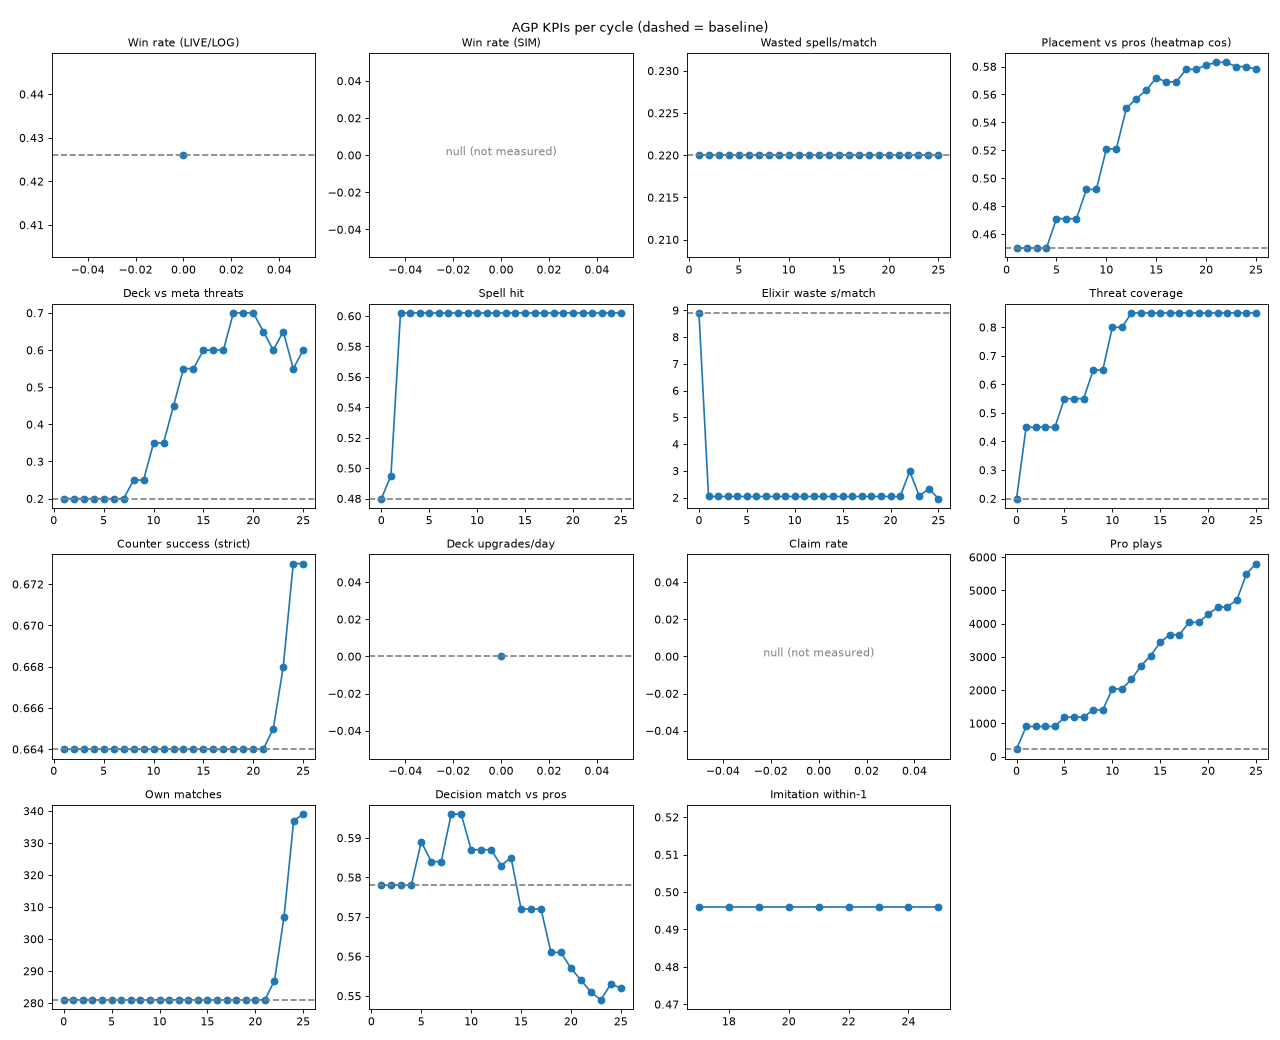
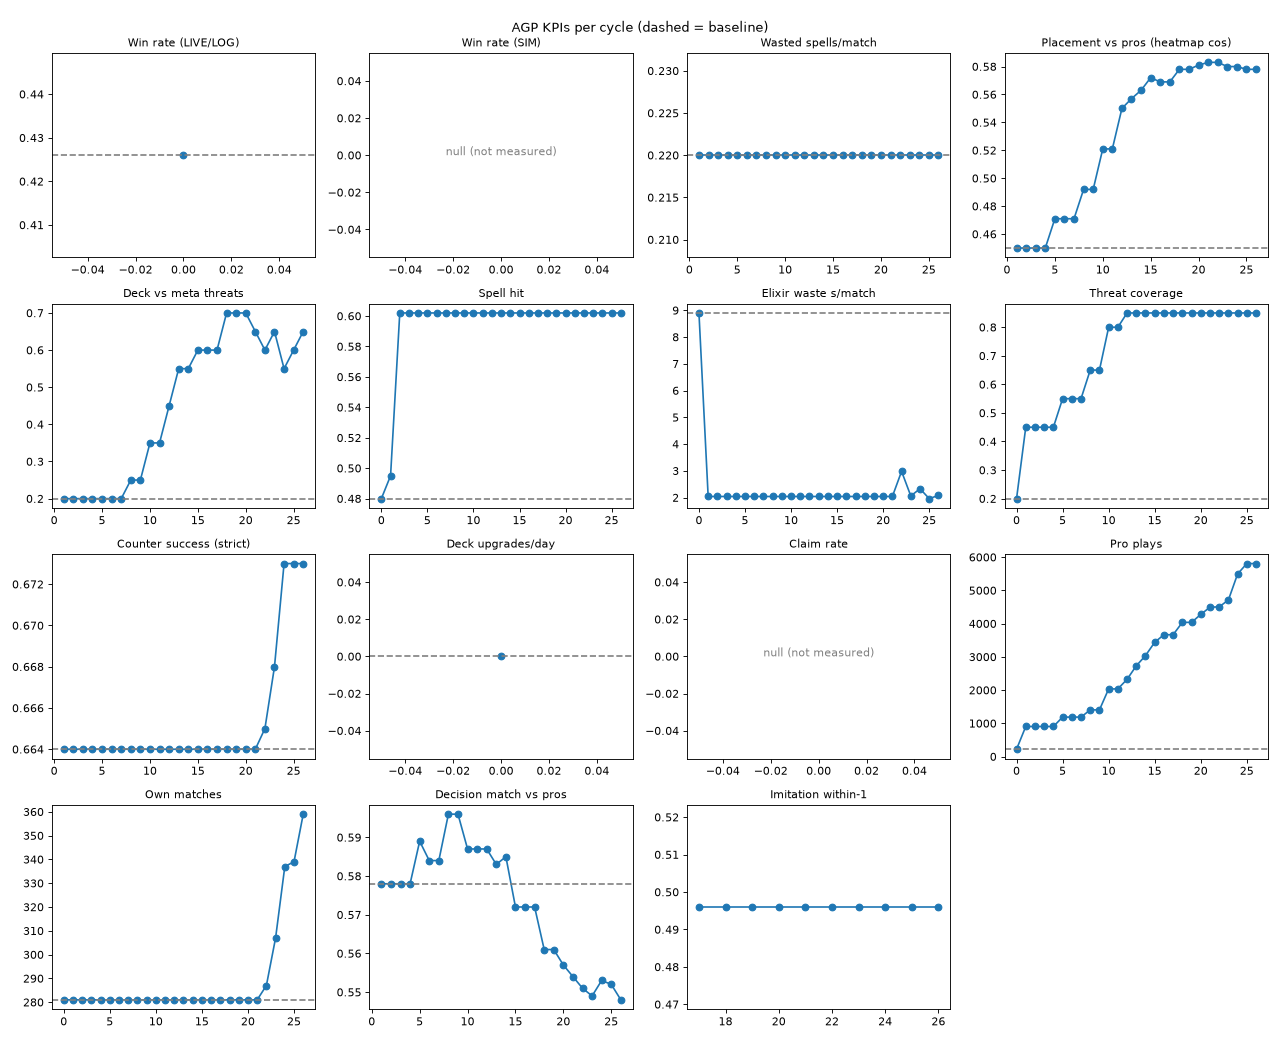
agp_loop 2026-11-02 14:21

diff --git a/laptop/PERFORMANCE_DASHBOARD.md b/laptop/PERFORMANCE_DASHBOARD.md
@@ -29,22 +29,22 @@ KPIs 6 and 7 stay blank until you greenlight, because they need the live game.
 <!-- DASHBOARD:BEGIN -->
 | KPI | Baseline | Current | Δ | Trend (last 5) | Source | Cycle |
 |---|---|---|---|---|---|---|
-| Win rate (LIVE/LOG) | 42.6% (n=195) | null | – | null → null → null → null → null | – | 25 (REVERT) |
-| Win rate (SIM) | null | null | – | null → null → null → null → null | – | 25 (REVERT) |
-| Wasted spells/match | 0.22 (n=206) @c1 | 0.22 (n=206) | = +0 | 0.22 → 0.22 → 0.22 → 0.22 → 0.22 | SIM | 25 (REVERT) |
-| Placement vs pros (heatmap cos) | 45.0% (n=905) @c1 | 57.8% (n=5808) | ▲ +12.8 pp | 58.3% → 58.3% → 58.0% → 58.0% → 57.8% | SIM+VOD | 25 (REVERT) |
-| Deck vs meta threats | 20.0% (n=20) @c1 | 60.0% (n=20) | ▲ +40.0 pp | 65.0% → 60.0% → 65.0% → 55.0% → 60.0% | LOG+WEB | 25 (REVERT) |
-| Spell hit | 48.0% (n=75) | 60.2% (n=93) | ▲ +12.2 pp | 60.2% → 60.2% → 60.2% → 60.2% → 60.2% | SIM | 25 (REVERT) |
-| Elixir waste s/match | 8.9 (n=263) | 1.96 (n=60) | ▲ -6.94 | 2.04 → 2.98 → 2.06 → 2.33 → 1.96 | SIM | 25 (REVERT) |
-| Threat coverage | 20.0% (n=20) | 85.0% (n=20) | ▲ +65.0 pp | 85.0% → 85.0% → 85.0% → 85.0% → 85.0% | LOG+VOD | 25 (REVERT) |
-| Counter success (strict) | 66.4% (n=3599) @c1 | 67.3% (n=4254) | = +0.9 pp | 66.4% → 66.5% → 66.8% → 67.3% → 67.3% | LOG | 25 (REVERT) |
-| Deck upgrades/day | 0 | null | – | null → null → null → null → null | – | 25 (REVERT) |
-| Claim rate | null | null | – | null → null → null → null → null | – | 25 (REVERT) |
-| Pro plays | 221 | 5808 | ▲ +5587 | 4495 → 4505 → 4711 → 5494 → 5808 | VOD | 25 (REVERT) |
-| Own matches | 281 | 339 | ▲ +58 | 281 → 287 → 307 → 337 → 339 | LOG | 25 (REVERT) |
-| Decision match vs pros | 57.8% (n=325) @c1 | 55.2% (n=2712) | ▼ -2.6 pp | 55.4% → 55.1% → 54.9% → 55.3% → 55.2% | SIM | 25 (REVERT) |
-| Imitation within-1 | 0.23–0.31 | 49.6% | – | 49.6% → 49.6% → 49.6% → 49.6% → 49.6% | – | 25 (REVERT) |
+| Win rate (LIVE/LOG) | 42.6% (n=195) | null | – | null → null → null → null → null | – | 26 (REVERT) |
+| Win rate (SIM) | null | null | – | null → null → null → null → null | – | 26 (REVERT) |
+| Wasted spells/match | 0.22 (n=206) @c1 | 0.22 (n=206) | = +0 | 0.22 → 0.22 → 0.22 → 0.22 → 0.22 | SIM | 26 (REVERT) |
+| Placement vs pros (heatmap cos) | 45.0% (n=905) @c1 | 57.8% (n=5808) | ▲ +12.8 pp | 58.3% → 58.0% → 58.0% → 57.8% → 57.8% | SIM+VOD | 26 (REVERT) |
+| Deck vs meta threats | 20.0% (n=20) @c1 | 65.0% (n=20) | ▲ +45.0 pp | 60.0% → 65.0% → 55.0% → 60.0% → 65.0% | LOG+WEB | 26 (REVERT) |
+| Spell hit | 48.0% (n=75) | 60.2% (n=93) | ▲ +12.2 pp | 60.2% → 60.2% → 60.2% → 60.2% → 60.2% | SIM | 26 (REVERT) |
+| Elixir waste s/match | 8.9 (n=263) | 2.08 (n=60) | ▲ -6.82 | 2.98 → 2.06 → 2.33 → 1.96 → 2.08 | SIM | 26 (REVERT) |
+| Threat coverage | 20.0% (n=20) | 85.0% (n=20) | ▲ +65.0 pp | 85.0% → 85.0% → 85.0% → 85.0% → 85.0% | LOG+VOD | 26 (REVERT) |
+| Counter success (strict) | 66.4% (n=3599) @c1 | 67.3% (n=4395) | = +0.9 pp | 66.5% → 66.8% → 67.3% → 67.3% → 67.3% | LOG | 26 (REVERT) |
+| Deck upgrades/day | 0 | null | – | null → null → null → null → null | – | 26 (REVERT) |
+| Claim rate | null | null | – | null → null → null → null → null | – | 26 (REVERT) |
+| Pro plays | 221 | 5808 | ▲ +5587 | 4505 → 4711 → 5494 → 5808 → 5808 | VOD | 26 (REVERT) |
+| Own matches | 281 | 359 | ▲ +78 | 287 → 307 → 337 → 339 → 359 | LOG | 26 (REVERT) |
+| Decision match vs pros | 57.8% (n=325) @c1 | 54.8% (n=2744) | ▼ -3.0 pp | 55.1% → 54.9% → 55.3% → 55.2% → 54.8% | SIM | 26 (REVERT) |
+| Imitation within-1 | 0.23–0.31 | 49.6% | – | 49.6% → 49.6% → 49.6% → 49.6% → 49.6% | – | 26 (REVERT) |
 
-_Tests: 65/65 · last change: agp_loop pass (live) · 2026-11-02T12:21:02-08:00_
+_Tests: 65/65 · last change: agp_loop pass (live) · 2026-11-02T14:21:03-08:00_
 <!-- DASHBOARD:END -->
 Chart: agp/v4/dashboard.png (matplotlib, one small panel per KPI, baseline drawn as a dashed line).

diff --git a/laptop/STATUS_LOOP.md b/laptop/STATUS_LOOP.md
@@ -4,3 +4,4 @@
 - 2026-11-02 01:58 cycle 23 REVERT
 - 2026-11-02 08:28 cycle 24 REVERT
 - 2026-11-02 12:21 cycle 25 REVERT
+- 2026-11-02 14:21 cycle 26 REVERT
